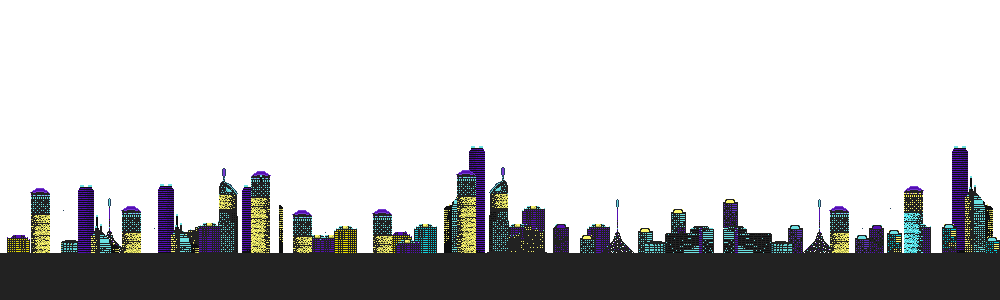
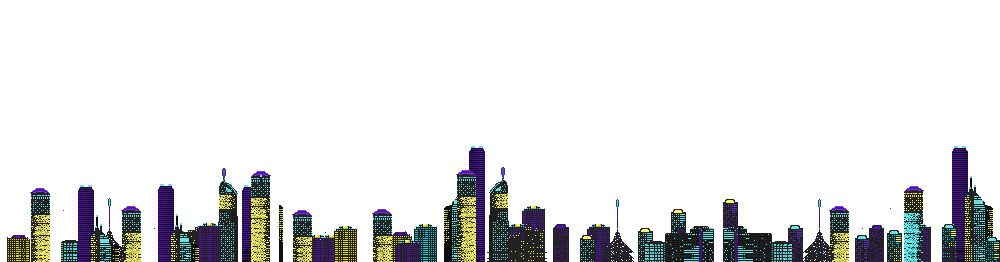
Fixed bug with exposed canvas behind background

Changed region(s): [[0.0, 0.4885, 1.0, 1.0]]

diff --git a/swervin_mervin/background.py b/swervin_mervin/background.py
@@ -4,13 +4,15 @@ import settings as s
 class Background:
     """Represents a single scrollable background in a level."""
 
-    def __init__(self, name, parallax_speed, convert=False):
+    def __init__(self, name, parallax_speed, scale_height=False, convert=False):
         self.image          = pygame.image.load(os.path.join("lib", "{0}.png".format(name)))
         self.parallax_speed = parallax_speed
         self.y              = 0
         self.width          = self.image.get_width()
         self.height         = self.image.get_height()
         self.curviture      = (self.width - s.DIMENSIONS[0]) / 2
+        self.scale_height   = scale_height
+        self.visible_height = 0
 
         if convert:
             self.image = self.image.convert()
@@ -31,19 +33,24 @@ class Background:
         """Draws the image to the window."""
         c = self.curviture
         w = s.DIMENSIONS[0]
+        img = self.image
 
-        window.blit(self.image,
+        # Stretch BG to fill visible area if scaling is turned on.
+        if self.scale_height and self.height < self.visible_height:
+            img = pygame.transform.scale(self.image, (self.width, int(self.visible_height)))
+
+        window.blit(img,
           (0, self.y),
-          (c, 0, w, self.height))
+          (c, 0, w, s.DIMENSIONS[1]))
 
         # FIll empty space on the left of the screen.
         if c < 0:
-            window.blit(self.image,
+            window.blit(img,
               (0, self.y),
-              (self.width + c, 0, -c, self.height))
+              (self.width + c, 0, -c, s.DIMENSIONS[1]))
 
         # FIll empty space on the right of the screen.
         elif c > (self.width - w):
-            window.blit(self.image,
+            window.blit(img,
               (self.width - c, self.y),
-              (0, 0, (c - (self.width - w)), self.height))
+              (0, 0, (c - (self.width - w)), s.DIMENSIONS[1]))

diff --git a/swervin_mervin/settings.py b/swervin_mervin/settings.py
@@ -81,10 +81,12 @@ LEVELS             = [{"id": "melbourne",
                        "backgrounds": [
                          {"id": "night_sky",
                           "speed": 2,
-                          "convert": True},
+                          "convert": True,
+                          "scale": False},
                          {"id": "city",
                           "speed": 1,
-                          "convert": False}
+                          "convert": False,
+                          "scale": True}
                        ]},
                       {"id": "goldcoast",
                        "name": "Gold Coast",

diff --git a/swervin_mervin/level.py b/swervin_mervin/level.py
@@ -15,7 +15,7 @@ class Level:
         self.slug        = details["id"]
         self.song        = details["song"]
         self.laps        = details["laps"]
-        self.backgrounds = map(lambda bg: b.Background(bg["id"], bg["speed"], bg["convert"]), details["backgrounds"])
+        self.backgrounds = map(lambda bg: b.Background(bg["id"], bg["speed"], bg["scale"], bg["convert"]), details["backgrounds"])
         self.palettes    = details["colours"]
         self.finished    = False
         self.segments    = []

diff --git a/swervin_mervin/game.py b/swervin_mervin/game.py
@@ -207,6 +207,10 @@ class Game:
         else:
             self.player.in_tunnel = False
 
+        # Let backgrounds know how much height they need to cover on the next paint.
+        for bg in l.backgrounds:
+            bg.visible_height = s.DIMENSIONS[1] - coverage[1].top["screen"]["y"]
+
         # Draw sprites in from back to front (painters algorithm).
         for segment in reversed(pre_renders):
             segment.render_polygons(self.window, coverage)
